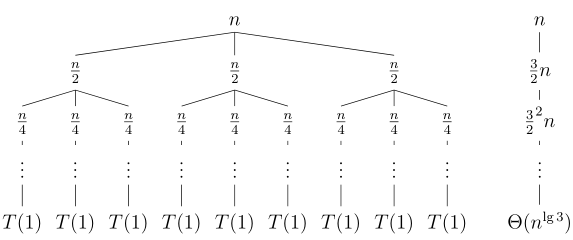
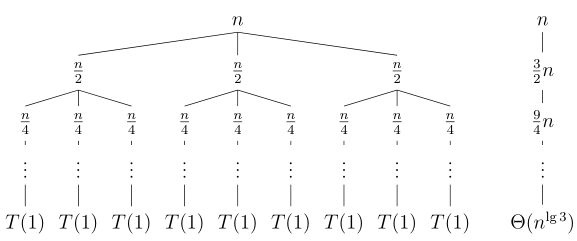
Exercise 4.4-2 solution
Includes minor tweaks to 4.4-1 recursion tree diagram for consistency.

diff --git a/_solutions/04/e4.4-2.md b/_solutions/04/e4.4-2.md
@@ -1,0 +1,63 @@
+---
+layout: clrs-solution
+title:  "Exercise 4.4-2"
+---
+>Use a recursion tree to determine a good asymptotic upper bound on the recurrence $$T(n) = T(n/2) + n^2$$. Use the substitution method to verify your answer.
+
+The recursion $$T(n) = T(n/2) + n^2$$ has the following recursion tree (Note that the left side is the tree itself and the right side is the 'sum' of that level):
+
+![4.4-2 Recursion Tree]({{ '/assets/img/4-4-2.png' | prepend: site.baseurl }}){:class="latex-img"}
+
+Adding up the costs of each level of the tree:
+
+$$\begin{split}
+T(n) & = n^2 + \left(\frac{n}{2}\right)^2 + \left(\frac{n}{4}\right)^2 + \cdots + \Theta(1) \\
+& = \sum\limits_{i=0}^{\lg(n)} \left(\frac{1}{4}\right)^i n^2 + \Theta(1) \\
+& < \sum\limits_{i=0}^{\infty} \left(\frac{1}{4}\right)^i n^2 + \Theta(1) \\
+& = \frac{1}{1 - \frac{1}{4}}n^2 + \Theta(1) \\
+& = \Theta(n^2) \\
+\end{split}$$
+
+Based on this calculation, we guess that $$T(n) \leq cn^2$$. substituting this into the recurrence yields
+
+$$\begin{split}
+T(n) & \leq c\left(\frac{n}{2}\right)^2 + n^2 \\
+& = \frac{cn^2}{4} + n^2 \\
+& = n^2\left(\frac{c}{4} + 1\right) \\
+& \leq cn^2
+\end{split}$$
+
+Where the last step holds for $$c \geq \frac{3}{4}$$.
+
+The following LaTeX code was used to generate the above recursion tree:
+
+{% highlight latex %}
+\documentclass[12pt]{article}
+\usepackage{forest}
+\usepackage{tikz-qtree}
+\begin{document}
+
+\begin{figure}
+\begin{minipage}[b]{0.3\linewidth}
+\centering
+\begin{tikzpicture}[scale=1,sibling distance=0pt]
+\Tree [.$n^2$
+        [.$(n/2)^2$  
+          [.$(n/4)^2$
+            [.$\vdots$ 
+             [.$\Theta(1)$ ] ] ] ] ]
+\end{tikzpicture}
+\end{minipage}% <- this is important here
+\begin{minipage}[b]{0.1\linewidth}
+\centering
+\begin{tikzpicture}[scale=1,sibling distance=0pt]
+\Tree [.$n^2$
+        [.$(1/4)n^2$
+          [.$(1/16)n^2$
+            [.$\vdots$ 
+              [.$\Theta(1)$ ] ] ] ] ] ]
+\end{tikzpicture}
+\end{minipage}
+\end{figure}
+\end{document}
+{% endhighlight %}

diff --git a/_solutions/04/e4.4-1.md b/_solutions/04/e4.4-1.md
@@ -80,7 +80,7 @@ The following LaTeX code was used to generate the above recursion tree:
 \begin{tikzpicture}[scale=.85,sibling distance=0pt]
 \Tree [.$n$
         [.$\frac{3}{2}n$
-          [.$\frac{3}{2}^2n$
+          [.$\frac{9}{4}n$
             [.$\vdots$ 
               [.$\Theta(n^{\lg3})$ ] ] ] ] ]
 \end{tikzpicture}
